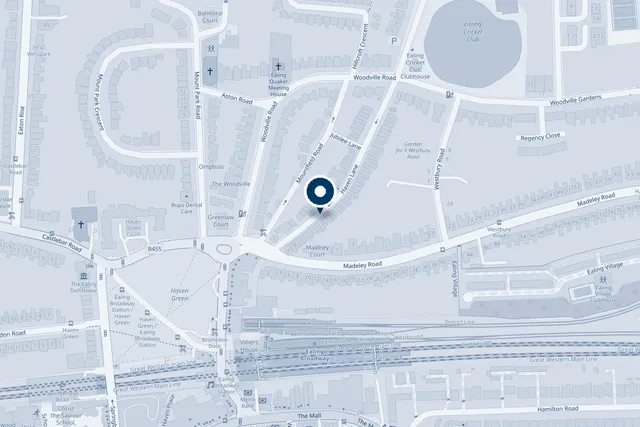
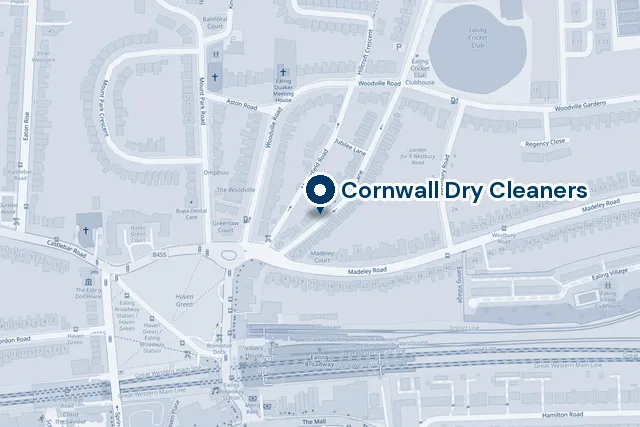
Align with Google listing (1.5.10): map pin on Google coordinates labelled with the Google name, Directions via place ID, schema town London

diff --git a/wp-content/themes/cornwall-dry-cleaners/style.css b/wp-content/themes/cornwall-dry-cleaners/style.css
@@ -6,7 +6,7 @@ Description: Block theme for the Haven Lane shop. The homepage is built from Wor
 Requires at least: 6.4
 Tested up to: 7.1
 Requires PHP: 7.4
-Version: 1.5.9
+Version: 1.5.10
 License: GNU General Public License v2 or later
 License URI: http://www.gnu.org/licenses/gpl-2.0.html
 Text Domain: cornwall-dry-cleaners

diff --git a/wp-content/themes/cornwall-dry-cleaners/inc/business.php b/wp-content/themes/cornwall-dry-cleaners/inc/business.php
@@ -22,14 +22,14 @@ function cornwall_business()
         'phone_intl'     => '+44 20 8991 9413',
         'street'         => '23 Haven Lane',
         'locality'       => 'Ealing',
-        'region'         => 'London',
+        'postal_town'    => 'London',
         'postcode'       => 'W5 2HZ',
         'country'        => 'GB',
-        'lat'            => 51.51661,
-        'lng'            => -0.300303,
+        'lat'            => 51.5166877,
+        'lng'            => -0.300401,
         'maps_url'       => 'https://maps.app.goo.gl/cw7sznF2TJq2SkL69',
         'place_id'       => 'ChIJ81BJSewTdkgR1Ru6ekdBmKw',
-        'directions_url' => 'https://www.google.com/maps/dir/?api=1&destination=23+Haven+Lane,+Ealing,+London+W5+2HZ',
+        'directions_url' => 'https://www.google.com/maps/dir/?api=1&destination=Cornwall+Dry+Cleaners&destination_place_id=ChIJ81BJSewTdkgR1Ru6ekdBmKw',
         // 0 = Sunday … 6 = Saturday. null = closed.
         'hours'          => array(
             1 => array('08:00', '18:00'),
@@ -52,7 +52,7 @@ function cornwall_biz($key)
 /** "23 Haven Lane, Ealing, London W5 2HZ" */
 function cornwall_address_line()
 {
-    return cornwall_biz('street') . ', ' . cornwall_biz('locality') . ', ' . cornwall_biz('region') . ' ' . cornwall_biz('postcode');
+    return cornwall_biz('street') . ', ' . cornwall_biz('locality') . ', ' . cornwall_biz('postal_town') . ' ' . cornwall_biz('postcode');
 }
 
 function cornwall_google_place_url()

diff --git a/wp-content/themes/cornwall-dry-cleaners/inc/head.php b/wp-content/themes/cornwall-dry-cleaners/inc/head.php
@@ -327,8 +327,7 @@ function cornwall_business_schema()
         'address'     => array(
             '@type'           => 'PostalAddress',
             'streetAddress'   => cornwall_biz('street'),
-            'addressLocality' => cornwall_biz('locality'),
-            'addressRegion'   => cornwall_biz('region'),
+            'addressLocality' => cornwall_biz('postal_town'),
             'postalCode'      => cornwall_biz('postcode'),
             'addressCountry'  => cornwall_biz('country'),
         ),

diff --git a/CLOUDWAYS.md b/CLOUDWAYS.md
@@ -10,10 +10,11 @@ Matches a Deployment Path of `public_html/`.
 
 **Do not merge this branch into `main`.**
 
-Theme **1.5.9** is the current Cloudways pull. It keeps everything signed off in 1.5.8 (flattened horizontal footer, Privacy/Terms, two-line Visit address, mobile header phone in the hamburger, `/review` short links with the 3-layer fallback, live hours, Settings → General controls) and adds:
+Theme **1.5.10** is the current Cloudways pull. It keeps everything signed off in 1.5.8 (flattened horizontal footer, Privacy/Terms, two-line Visit address, mobile header phone in the hamburger, `/review` short links with the 3-layer fallback, live hours, Settings → General controls) and adds:
 
 - **Site title "Cornwall Dry Cleaners", tagline "Ealing".** The version refresh sets both, plus the London timezone and UK date format. Homepage title: `Cornwall Dry Cleaners – Ealing`; inner pages drop the tagline.
-- **Static map.** The Visit map is a self-hosted OpenStreetMap image (no Google iframe, no third-party requests) that opens Google Maps when tapped, with an `© OpenStreetMap contributors` credit.
+- **Static map.** The Visit map is a self-hosted OpenStreetMap image (no Google iframe, no third-party requests) that opens Google Maps when tapped, with an `© OpenStreetMap contributors` credit. The pin sits on the Google Business Profile coordinates and is labelled with the Google name, "Cornwall Dry Cleaners".
+- **Aligned with the Google listing.** Structured data uses Google's name, coordinates and address town (`23 Haven Lane, London W5 2HZ`); Directions buttons open the Google listing itself (place ID) rather than a street address.
 - **Review dates removed.** The three reviews are unchanged; each now just says "Google review".
 - **Weekly scan email.** Every Monday at 8am (London time) Gina gets the week's `/review` scan counts per source. Change the address or send a test under **Settings → General → Weekly scan email**. Leave the address blank to stop it.
 - **Bank holidays update themselves.** The theme fetches the GOV.UK England & Wales list weekly (built-in 2026–2028 list as a fallback). Live hours and Google structured data both use it.
@@ -38,10 +39,10 @@ To go live, switch Git to **cursor/legal-pages-fed1** (this branch already conta
 3. Leave Deployment Path as `public_html/`.
 4. Click **Pull**.
 5. Purge cache: WordPress → **Breeze → Purge All Cache**, and Cloudways → **Varnish → Purge**.
-6. Hard-refresh `https://cornwalldrycleaners.com/`. Confirm `style.css` says `Version: 1.5.9`.
+6. Hard-refresh `https://cornwalldrycleaners.com/`. Confirm `style.css` says `Version: 1.5.10`.
 7. Check `/privacy/`, `/terms/`, `/review` and a made-up URL such as `/nothing-here` (should show the new 404 page).
 
-A git pull does not run “switch theme”. Version `1.5.9` rewrites Home, writes the legal pages, creates the wedding draft (only if missing), resets stored header/footer copies, sets the site title/tagline, refreshes the review fallback files, and asks Breeze to clear — but Breeze/Varnish HTML cache still needs a **purge after Pull**.
+A git pull does not run “switch theme”. Version `1.5.10` rewrites Home, writes the legal pages, creates the wedding draft (only if missing), resets stored header/footer copies, sets the site title/tagline, refreshes the review fallback files, and asks Breeze to clear — but Breeze/Varnish HTML cache still needs a **purge after Pull**.
 
 The theme no longer prints a Site Icon from Settings → General; its own favicons are used instead.
 

diff --git a/wp-content/themes/cornwall-dry-cleaners/CLOUDWAYS.md b/wp-content/themes/cornwall-dry-cleaners/CLOUDWAYS.md
@@ -8,9 +8,9 @@ This theme is meant to be pulled into a WordPress `public_html/`.
 | Branch | `cursor/legal-pages-fed1` |
 | Deployment Path | `public_html/` |
 
-Fetch, select that branch, Pull, then **purge Breeze and Varnish**. Confirm `style.css` shows **1.5.9**. Footer is a flat horizontal bar. On mobile the header is logo + menu; the number is in the drawer.
+Fetch, select that branch, Pull, then **purge Breeze and Varnish**. Confirm `style.css` shows **1.5.10**. Footer is a flat horizontal bar. On mobile the header is logo + menu; the number is in the drawer.
 
-1.5.9 sets the site title to "Cornwall Dry Cleaners" with tagline "Ealing", swaps the Google map iframe for a static OpenStreetMap image that opens Google Maps, removes the review dates, adds a 404 page, a weekly Monday 8am scan email, GOV.UK bank holidays, and date-based holiday closures. A wedding dress page mockup is created as a **draft** (Pages → Drafts); answer its `[Confirm]` items before publishing.
+1.5.10 sets the site title to "Cornwall Dry Cleaners" with tagline "Ealing", swaps the Google map iframe for a static OpenStreetMap image (pin on the Google coordinates, labelled "Cornwall Dry Cleaners") that opens Google Maps, points Directions at the Google listing, removes the review dates, adds a 404 page, a weekly Monday 8am scan email, GOV.UK bank holidays, and date-based holiday closures. A wedding dress page mockup is created as a **draft** (Pages → Drafts); answer its `[Confirm]` items before publishing.
 
 `/review`, `/review/qr`, `/review/nfc`, `/review/receipt`, `/review/web`, `/qr` and `/nfc` 302 to the Google review form with a 3-layer fallback (`mu-plugins` copy of `inc/review-fallback.php`, `db-error.php`, `.htaccess`). Destination, scan counts, weekly email address, Google rating/review count, and holiday notice/closure dates: **Settings → General**. Exclude `https://cornwalldrycleaners.com/review` and `https://cornwalldrycleaners.com/review/(.*)` in Breeze.
 
